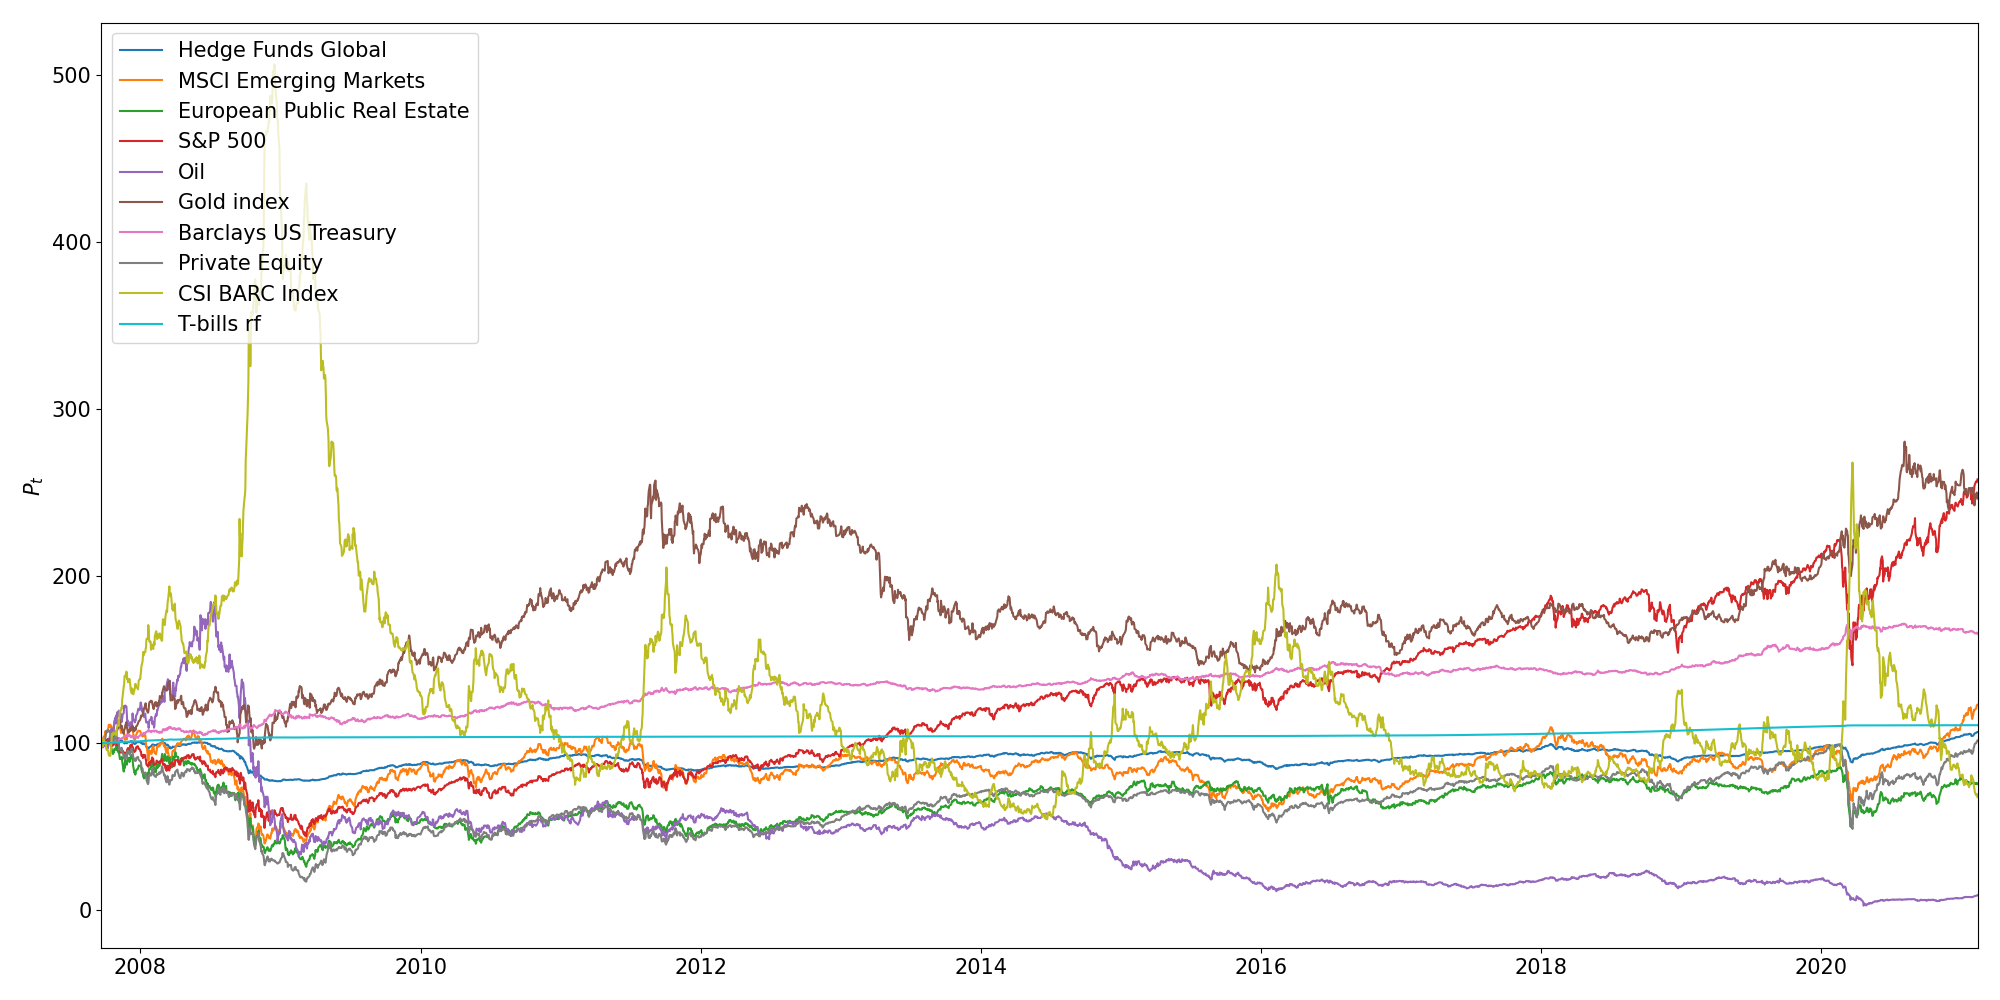
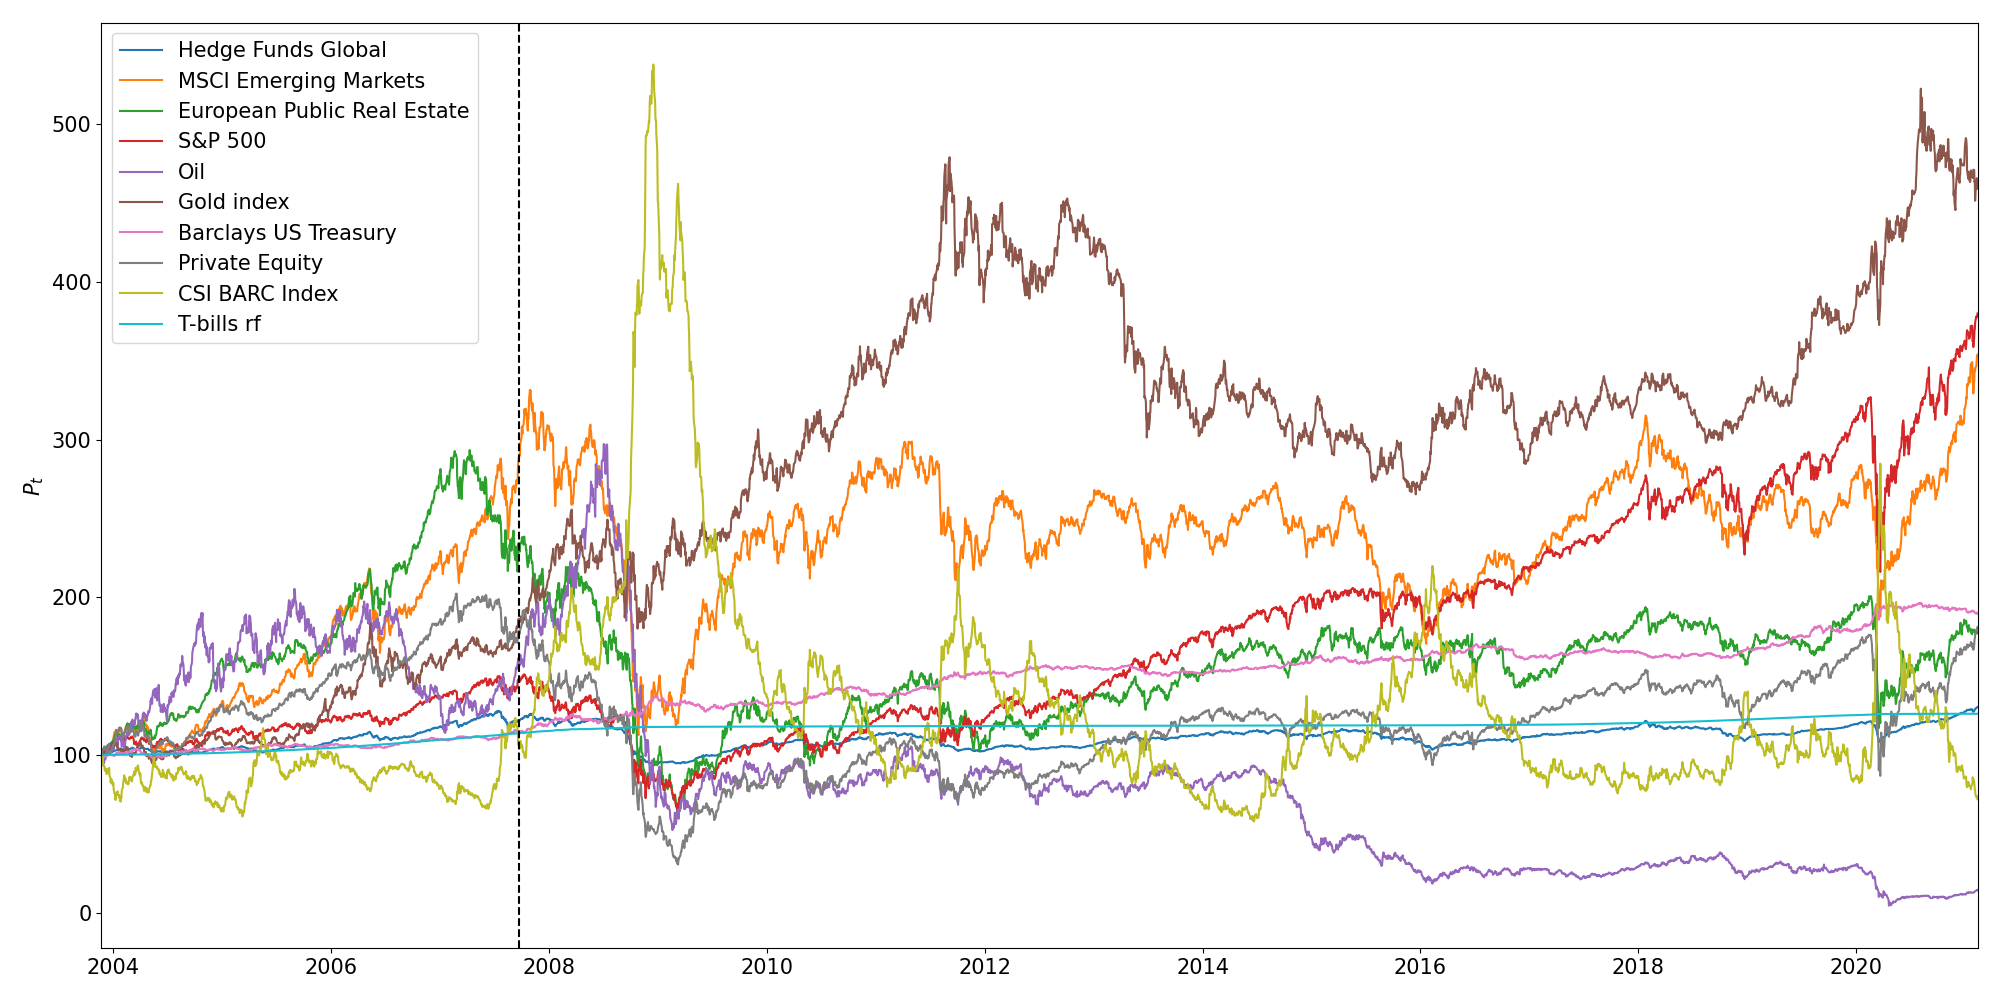
Updated asset vals

diff --git a/analysis/portfolio_exercise/data_description.py b/analysis/portfolio_exercise/data_description.py
@@ -41,8 +41,8 @@ def compute_asset_metrics(df,start=None):
 
     metrics = {#'Return': cagr,
                #'Std': std,
-               'Return': excess_cagr,
-               'Std': excess_std,
+               'Excess Return': excess_cagr,
+               'Excess Std': excess_std,
                'Sharpe': sharpe,
                'Max drawdown': max_drawdown,
                'Calmar ratio': calmar}
@@ -51,7 +51,7 @@ def compute_asset_metrics(df,start=None):
 
     return metrics
 
-def plot_asset_vals(df, start=None, show=True, savefig=False):
+def plot_asset_vals(df, eval_vline=False, start=None, savefig=False):
     # Prepare data
     df.dropna(inplace=True)
     if not start == None:
@@ -69,6 +69,10 @@ def plot_asset_vals(df, start=None, show=True, savefig=False):
     # Labels have to be assigned this way if one wants to avoid a loop
     ax.legend(lineObjects, custom_labels, loc='upper left')#,bbox_to_anchor=(1.05, 1))#, loc='upper left')
 
+    if eval_vline:
+        ax.axvline(x=df.index[1000], ymin=0, ymax=df.max().max(),
+                   color='black', ls='--')
+
     #ax.set_yscale('log')
     ax.set_ylabel(r'$P_t$')
     ax.set_xlim(df.index[0], df.index[-1])
@@ -76,10 +80,7 @@ def plot_asset_vals(df, start=None, show=True, savefig=False):
 
     if not savefig == None:
         plt.savefig('./images/' + savefig)
-    if show:
-        plt.show()
-
-    return fig, ax
+    plt.show()
 
 
 if __name__ == '__main__':
@@ -87,7 +88,7 @@ if __name__ == '__main__':
     data_is = DataPrep(out_of_sample=False)
     start = None
 
-    metrics_oos = compute_asset_metrics(data_oos.prices, start=start).round(4)
+    metrics_oos = compute_asset_metrics(data_oos.prices.iloc[1000:], start=start).round(4)
     metrics_insample = compute_asset_metrics(data_is.prices, start=start).round(4)
     print(metrics_oos)
     print(metrics_insample)
@@ -95,7 +96,7 @@ if __name__ == '__main__':
     save = True
     if save:
         metrics_oos.to_latex('../../analysis/portfolio_exercise/output_data/asset_performance.tex')
-        plot_asset_vals(data_oos.prices.iloc[1000:], start=start, savefig='asset_vals_oos.png')
+        plot_asset_vals(data_oos.prices, eval_vline=True,start=start, savefig='asset_vals_oos.png')
         plot_asset_vals(data_is.prices, start=start, savefig='asset_vals_insample')
     else:
         plot_asset_vals(data_oos.prices, start=start, savefig=None)

diff --git a/analysis/portfolio_exercise/output_data/asset_performance.tex b/analysis/portfolio_exercise/output_data/asset_performance.tex
@@ -1,15 +1,15 @@
 \begin{tabular}{lrrrrr}
 \toprule
-{} &  Return &     Std &  Sharpe &  Max drawdown &  Calmar ratio \\
+{} &  Excess Return &  Excess Std &  Sharpe &  Max drawdown &  Calmar ratio \\
 \midrule
-Hedge Funds Global          &  0.0018 &  0.0370 &  0.0499 &        0.2630 &        0.0070 \\
-MSCI Emerging Markets       &  0.0595 &  0.1914 &  0.3106 &        0.6606 &        0.0900 \\
-European Public Real Estate &  0.0192 &  0.2222 &  0.0866 &        0.7924 &        0.0243 \\
-S\&P 500                     &  0.0637 &  0.1884 &  0.3381 &        0.5678 &        0.1122 \\
-Oil                         & -0.1146 &  0.3982 & -0.2877 &        0.9852 &       -0.1163 \\
-Gold index                  &  0.0751 &  0.1729 &  0.4343 &        0.4462 &        0.1683 \\
-Barclays US Treasury        &  0.0231 &  0.0423 &  0.5456 &        0.0717 &        0.3220 \\
-Private Equity              &  0.0204 &  0.2353 &  0.0867 &        0.8492 &        0.0240 \\
-CSI BARC Index              & -0.0309 &  0.3265 & -0.0946 &        0.8925 &       -0.0346 \\
+Hedge Funds Global          &        -0.0027 &      0.0373 & -0.0729 &        0.2521 &       -0.0108 \\
+MSCI Emerging Markets       &         0.0075 &      0.1996 &  0.0378 &        0.6606 &        0.0114 \\
+European Public Real Estate &        -0.0271 &      0.2359 & -0.1150 &        0.7447 &       -0.0364 \\
+S\&P 500                     &         0.0627 &      0.2053 &  0.3056 &        0.5678 &        0.1105 \\
+Oil                         &        -0.1659 &      0.4229 & -0.3923 &        0.9852 &       -0.1684 \\
+Gold index                  &         0.0593 &      0.1758 &  0.3375 &        0.4462 &        0.1330 \\
+Barclays US Treasury        &         0.0294 &      0.0439 &  0.6683 &        0.0717 &        0.4095 \\
+Private Equity              &        -0.0063 &      0.2571 & -0.0244 &        0.8412 &       -0.0074 \\
+CSI BARC Index              &        -0.0348 &      0.3394 & -0.1024 &        0.8925 &       -0.0390 \\
 \bottomrule
 \end{tabular}

diff --git a/models/hidden_markov/hmm_gaussian_em.py b/models/hidden_markov/hmm_gaussian_em.py
@@ -46,17 +46,12 @@ class EMHiddenMarkov(BaseHiddenMarkov):
         Initial state occupation distribution
     gamma : ndarray of shape (n_states,)
         Entails the probability of being in a state at time t knowing
-        all the observations that has come and all the observations to come. (Its a bowtie)
-    aic_ : float
-        Measurement to select the best fitted model
-    bic_ : float
-        Measurement to select the best fitted model
+        all the observations that has come and all the observations to come.
     """
 
     def __init__(self, n_states: int = 2, init: str = 'random', max_iter: int = 100, tol: float = 1e-6,
                  epochs: int = 10, random_state: int = 42):
         super().__init__(n_states, init, max_iter, tol, epochs, random_state)
-
         self.type = 'mle'
 
     def compute_log_posteriors(self, log_alphas, log_betas):

diff --git a/utils/data_prep.py b/utils/data_prep.py
@@ -160,7 +160,9 @@ def get_cov_mat(df_ret):
 
 if __name__ == '__main__':
     path = '../data/price_series.csv'
-    data = DataPrep(path=path, out_of_sample=False)
+    data = DataPrep(path=path, out_of_sample=True)
     print(data.prices)
     print(data.rets)
     print(data.logrets)
+
+    #data.load_prices()
